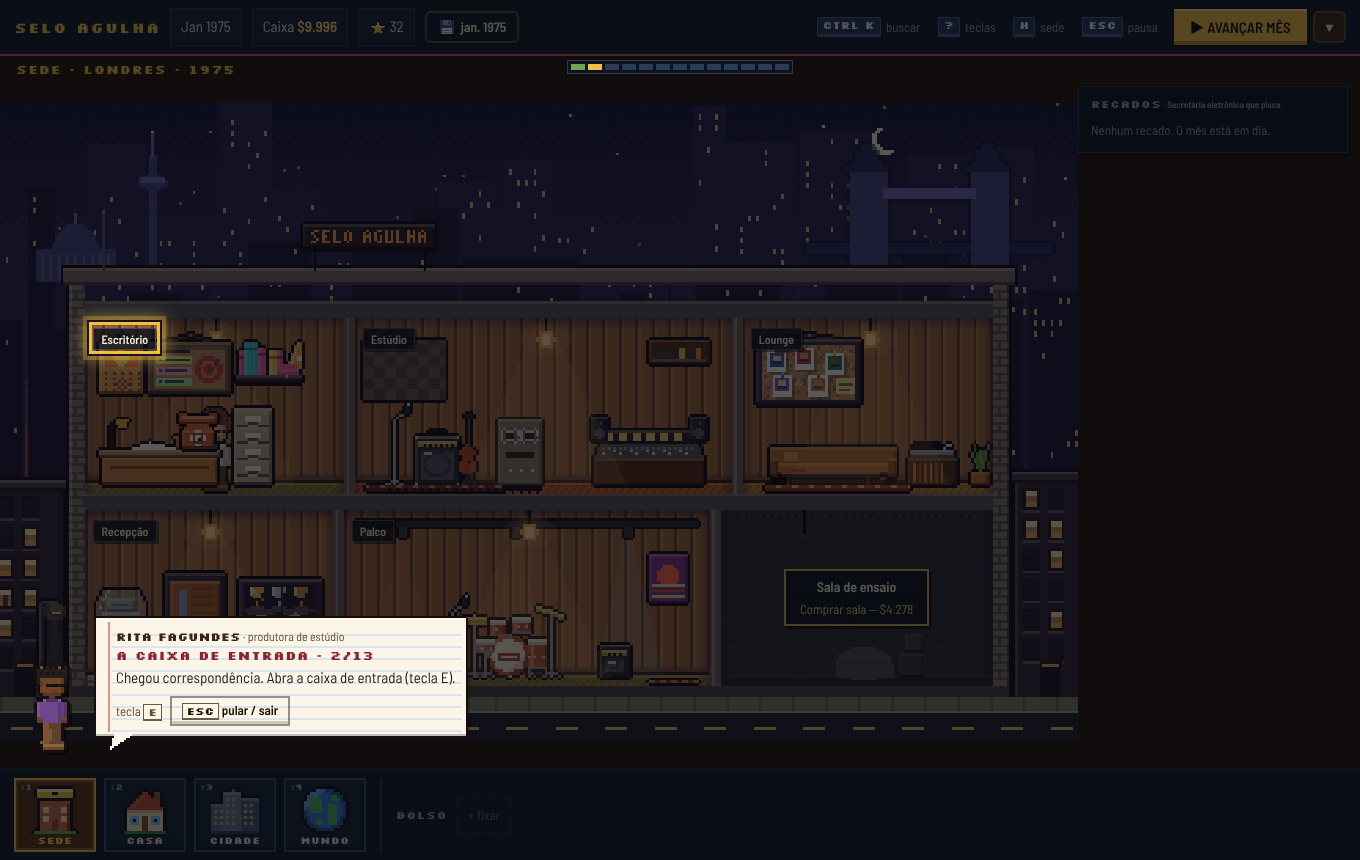
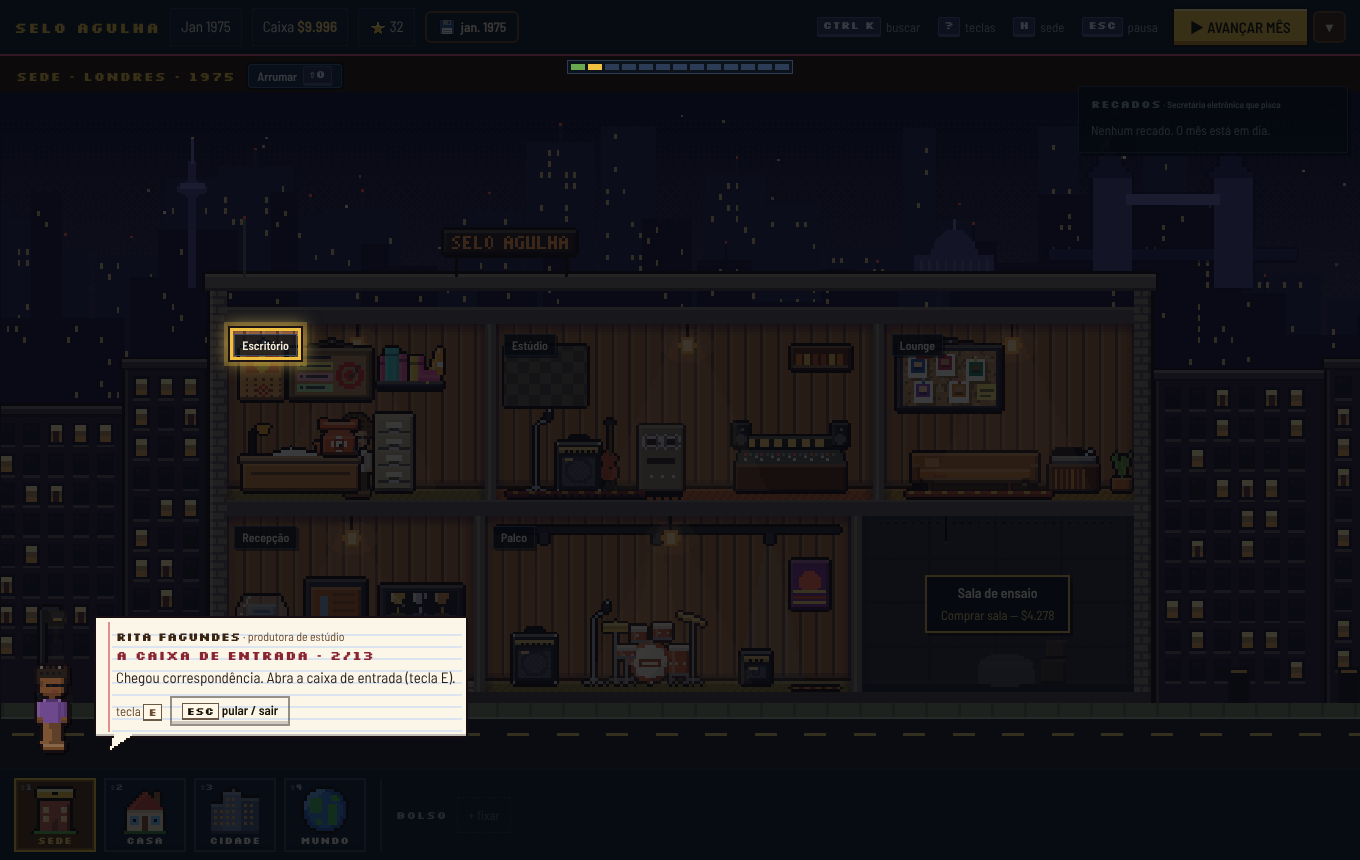
Onda 5 (TUT): tutorial com o cartão de ações (EXP-13), escuro em 4 painéis, nomes protegidos
- Lê o cartão de ações (.ac5[data-card]); o passo do bolso pede "ver tudo ▸" (fixar só com o papel).
- Alvo fora da tela acende o que o passo libera; clique no que o passo libera sempre passa.
- Escuro em volta do alvo com 4 painéis; balão redesenha no tamanho do texto (texto não sai da moldura); diploma alinhado.
- Nome do mentor não passa pela troca de nomes reais; "Fazer" deixa de virar "Fazmann" nos botões.
- Robô do teste melhora a proposta se a banda recusar (como o jogador); capturas refeitas.

Claude-Session: https://claude.ai/code/session_011XM6gk992aeaeJ7tjK8svn

diff --git a/src/ui/r31/tut5ui.ts b/src/ui/r31/tut5ui.ts
@@ -30,7 +30,7 @@ const game = (): GameState | null => store.game ?? null;
 
 /** O que a casca mostra agora (cartão de ações do EXP-13 lido do DOM, quando existir). */
 export function view5(): View5 {
-  const card = typeof document !== 'undefined' ? document.querySelector<HTMLElement>('[data-card5]')?.dataset.card5 : undefined;
+  const card = typeof document !== 'undefined' ? document.querySelector<HTMLElement>('.ac5[data-card]')?.dataset.card : undefined; // cartão de ações (ACOES5)
   return { ...VIEW0, region: SH5.region, paper: SH5.paper?.obj, marker: SH5.paper?.marker.area, card, pause: SH5.pause, help: SH5.help };
 }
 
@@ -44,7 +44,7 @@ export function selOf5(x: Tgt5): string {
   if ('obj' in x) return `[data-obj="${x.obj}"]`;
   if ('travel' in x) return `.b5-tr[data-travel="${x.travel}"]`;
   if ('shell' in x) return SHELL_SEL[x.shell] ?? '.t5';
-  if ('paper' in x) return '[data-card5], .p5';
+  if ('paper' in x) return '.ac5, .p5';
   if ('region' in x) return `.reg5-${x.region}`;
   return '.t5';
 }
@@ -82,8 +82,8 @@ function install(): void {
     if (!guided(s) || UI5.menu) return;
     const el = e.target as HTMLElement | null;
     if (!el || el.closest(ALWAYS)) return;
-    const { target, all } = allowedEls(s);
-    if (target && all.some((a) => a.contains(el))) return; // alvo fora da tela (outro lugar): só a tecla dele vale
+    const { all } = allowedEls(s);
+    if (all.some((a) => a.contains(el))) return; // alvo fora da tela (outro lugar): a tecla dele e o que o passo libera
     e.preventDefault(); e.stopImmediatePropagation();
     if (e.type === 'click') nudge();
   };
@@ -124,7 +124,18 @@ function nudge(): void {
 // ---------------------------------------------------------------- posição do recorte (rAF enquanto montado)
 
 function follow(root: HTMLElement): void {
-  const hole = root.querySelector<HTMLElement>('.tu5-hole');
+  const dims = [...root.querySelectorAll<HTMLElement>('.tu5-dim')];
+  /** Escurece tudo menos o retângulo (4 painéis em volta do alvo; sem alvo, a tela toda). */
+  const cut = (x: number, y: number, w: number, hh: number) => {
+    if (dims.length !== 4) return;
+    const W = window.innerWidth, H = window.innerHeight;
+    const [t, b, l, r] = dims;
+    const px = (n: number) => `${Math.max(0, n)}px`;
+    Object.assign(t.style, { left: '0px', top: '0px', width: px(W), height: px(y) });
+    Object.assign(b.style, { left: '0px', top: px(y + hh), width: px(W), height: px(H - y - hh) });
+    Object.assign(l.style, { left: '0px', top: px(y), width: px(x), height: px(hh) });
+    Object.assign(r.style, { left: px(x + w), top: px(y), width: px(W - x - w), height: px(hh) });
+  };
   const ring = root.querySelector<HTMLElement>('.tu5-ring');
   const here = root.querySelector<HTMLElement>('.tu5-here');
   const box = root.querySelector<HTMLElement>('.tu5-box');
@@ -133,11 +144,13 @@ function follow(root: HTMLElement): void {
     if (!root.isConnected) return;
     const s = game();
     const c = s ? cur5(s) : undefined;
-    const el = c ? elsOf(c.step.target)[0] : undefined;
-    if (el && hole && ring) {
+    // alvo fora da tela: acende o que o passo libera (ex.: o cartão de ações já aberto)
+    const el = c ? elsOf(c.step.target)[0] ?? (c.step.free ?? []).flatMap(elsOf)[0] : undefined;
+    if (el && ring) {
       const r = el.getBoundingClientRect();
       const pad = 4;
-      for (const x of [hole, ring]) { x.hidden = false; x.style.left = `${r.left - pad}px`; x.style.top = `${r.top - pad}px`; x.style.width = `${r.width + pad * 2}px`; x.style.height = `${r.height + pad * 2}px`; }
+      ring.hidden = false; ring.style.left = `${r.left - pad}px`; ring.style.top = `${r.top - pad}px`; ring.style.width = `${r.width + pad * 2}px`; ring.style.height = `${r.height + pad * 2}px`;
+      cut(r.left - pad, r.top - pad, r.width + pad * 2, r.height + pad * 2);
       if (here) { here.style.left = `${r.left}px`; here.style.top = `${Math.max(4, r.top - 26)}px`; }
       // balão longe do alvo: canto de baixo à esquerda, ou em cima à direita se o alvo estiver lá embaixo à esquerda;
       // alvo grande (papel, cena inteira): o balão desce para cima da barra de viagem (que fica bloqueada mesmo)
@@ -147,7 +160,7 @@ function follow(root: HTMLElement): void {
       if (k !== lastFocus) { lastFocus = k; if (!el.contains(document.activeElement) && !document.activeElement?.closest('.tu5-ui')) { (el.matches('button, a, input, [tabindex]') ? el : el.querySelector<HTMLElement>('button, a, input, [tabindex]'))?.focus({ preventScroll: false }); } }
     } else {
       // alvo fora da tela (objeto de outro lugar): tudo escuro e a tecla dele no balão
-      if (hole) { hole.hidden = !root.classList.contains('dim'); hole.style.left = '50%'; hole.style.top = '-8px'; hole.style.width = '0px'; hole.style.height = '0px'; }
+      cut(0, window.innerHeight, 0, 0);
       if (ring) ring.hidden = true;
       if (box) { box.classList.remove('top'); box.classList.remove('low'); }
     }
@@ -158,16 +171,36 @@ function follow(root: HTMLElement): void {
 
 // ---------------------------------------------------------------- balão do mentor
 
+/** Nome do mentor como nó de texto cru: o filtro "Nomes e obras reais" não troca personagem do tutorial (ex.: "Celeste"
+ *  também é nome de artista real). Devolve as partes do texto com cada ocorrência de `names` protegida. */
+function nm(text: string, ...names: string[]): (string | Text)[] {
+  const ns = names.filter(Boolean).sort((a, b) => b.length - a.length);
+  const out: (string | Text)[] = [];
+  let rest = text;
+  for (let guard = 0; guard < 20 && rest; guard++) {
+    let at = -1, hit = '';
+    for (const n of ns) { const i = rest.indexOf(n); if (i >= 0 && (at < 0 || i < at)) { at = i; hit = n; } }
+    if (at < 0) break;
+    if (at > 0) out.push(rest.slice(0, at));
+    out.push(document.createTextNode(hit));
+    rest = rest.slice(at + hit.length);
+  }
+  if (rest) out.push(rest);
+  return out;
+}
+const short5 = (name: string): string => { const w = name.split(' '); return w[0] === 'Seu' || w[0] === 'Dona' ? w.slice(0, 2).join(' ') : w[0]; };
+
 function mentorBox(s: GameState, title: string, body: L, kids: (HTMLElement | null)[], o: { live?: boolean; cls?: string } = {}): HTMLElement {
   const m = mentor5(s.year);
   const face = mentorCanvas5(s.year, 3); face.className = 'tu5-mentor px'; face.setAttribute('aria-hidden', 'true');
   const bub = h('div', { class: 'tu5-bub' },
     h('canvas', { class: 'tu5-bubcv px', 'aria-hidden': 'true' }),
-    h('p', { class: 'tu5-who' }, h('b', null, m.name), ` · ${t(m.role)}`),
+    h('p', { class: 'tu5-who' }, h('b', null, ...nm(m.name, m.name)), ` · ${t(m.role)}`),
     title ? h('h2', { class: 'tu5-t' }, title) : null,
-    h('p', { class: 'tu5-say', 'aria-live': o.live === false ? undefined : 'polite' }, t(body)),
+    h('p', { class: 'tu5-say', 'aria-live': o.live === false ? undefined : 'polite' }, ...nm(t(body), m.name, short5(m.name))),
     h('div', { class: 'tu5-acts' }, ...kids));
-  const el = h('div', { class: `tu5-box tu5-ui ${o.cls ?? ''}`, role: 'dialog', 'aria-label': `${m.name}: ${t(l('tutorial', 'tutorial'))}` }, face, bub);
+  const el = h('div', { class: `tu5-box tu5-ui ${o.cls ?? ''}`, role: 'dialog' }, face, bub);
+  el.setAttribute('aria-label', `${m.name}: ${t(l('tutorial', 'tutorial'))}`);
   // moldura do balão em pixel (redesenha no tamanho do texto, também quando ele muda)
   let last = '';
   const paint = () => {
@@ -205,15 +238,16 @@ function diploma(s: GameState, tt: Tut5): HTMLElement {
         h('p', null, t(l('Certifico que', 'This certifies that')), ' ', h('b', null, s.config.companyName || t(l('o seu selo', 'your label'))), ' ',
           t(l('aprendeu o ofício: sede, contratos, gravação, lançamento, cidade, mundo e casa.', 'has learned the trade: HQ, contracts, recording, release, city, world and home.'))),
         h('p', { class: 'tu5-dipsm' }, t(l('{n} capítulos concluídos · {y}', '{n} chapters completed · {y}'), { n: tt.done.length, y: s.year })),
-        h('p', { class: 'tu5-sign' }, h('span', null, m.name), h('small', null, t(m.role)))),
-      h('p', { class: 'tu5-dipnote' }, t(l('A partida segue livre neste mesmo save. {m} fica no {p} para dicas.', 'The run continues freely in this same save. {m} stays on the {p} for tips.'), { m: m.name, p: t(m.phone) })),
+        h('p', { class: 'tu5-sign' }, h('span', null, ...nm(m.name, m.name)), h('small', null, t(m.role)))),
+      h('p', { class: 'tu5-dipnote' }, ...nm(t(l('A partida segue livre neste mesmo save. {m} fica no {p} para dicas.', 'The run continues freely in this same save. {m} stays on the {p} for tips.'), { m: m.name, p: t(m.phone) }), m.name)),
       h('button', { type: 'button', class: 'tu5-b main', onclick: close }, t(l('Continuar jogando', 'Keep playing')))));
 }
 
 function phone(s: GameState): HTMLElement {
   const m = mentor5(s.year);
-  const chip = h('button', { type: 'button', class: 'tu5-phone tu5-ui', 'aria-expanded': UI5.phone ? 'true' : 'false', title: t(l('Ligar para {m}', 'Call {m}'), { m: m.name }),
-    onclick: () => { UI5.phone = !UI5.phone; RERENDER(); } }, (() => { const c = phoneCanvas5(s.year, 2); c.className = 'px tu5-phi'; c.setAttribute('aria-hidden', 'true'); return c; })(), t(l('Ligar para {m}', 'Call {m}'), { m: m.name.split(' ')[0] === 'Seu' || m.name.split(' ')[0] === 'Dona' ? m.name.split(' ').slice(0, 2).join(' ') : m.name.split(' ')[0] }));
+  const chip = h('button', { type: 'button', class: 'tu5-phone tu5-ui', 'aria-expanded': UI5.phone ? 'true' : 'false',
+    onclick: () => { UI5.phone = !UI5.phone; RERENDER(); } }, (() => { const c = phoneCanvas5(s.year, 2); c.className = 'px tu5-phi'; c.setAttribute('aria-hidden', 'true'); return c; })(), ...nm(t(l('Ligar para {m}', 'Call {m}'), { m: short5(m.name) }), short5(m.name)));
+  chip.setAttribute('title', t(l('Ligar para {m}', 'Call {m}'), { m: m.name }));
   if (!UI5.phone) return chip;
   let tip: L = l('Tudo em dia. Experimente outro país no mapa-múndi, ou um disco cheio quando tiver músicas.', 'All caught up. Try another country on the world map, or a full album once you have songs.');
   let go: (() => void) | null = null;
@@ -257,7 +291,7 @@ export function tutLayer5(s: GameState, rerender: () => void): HTMLElement | nul
   ];
   const box = mentorBox(s, head, text, acts);
   const root = h('div', { class: `tu5${hint ? ' hint' : ' dim'}`, 'data-step': `${c.ch.id}/${c.step.id}` },
-    hint ? null : h('div', { class: 'tu5-hole', 'aria-hidden': 'true' }),
+    ...(hint ? [] : ['t', 'b', 'l', 'r'].map((k) => h('div', { class: `tu5-dim tu5-dim-${k}`, 'aria-hidden': 'true' }))),
     h('div', { class: 'tu5-ring', 'aria-hidden': 'true', hidden: true }),
     h('div', { class: 'tu5-here tu5-ui', hidden: true, role: 'status' }, t(l('primeiro aqui ↓', 'first here ↓'))),
     h('div', { class: 'tu5-prog tu5-ui', 'aria-hidden': 'true' }, ...Array.from({ length: c.of }, (_, i) => h('i', { class: i < c.ci ? 'ok' : i === c.ci ? 'on' : '' }))),

diff --git a/src/ui/r31/tut5data.ts b/src/ui/r31/tut5data.ts
@@ -40,7 +40,7 @@ export const CHAPTERS5: Chapter5[] = [
   ] },
   { id: 'contratar', title: l('Contratar a banda', 'Signing the band'), mins: 1.5, steps: [
     open('fichario', 'fichario', l('Os contatos ficam no fichário (tecla {k}). Abra.', 'Contacts live in the rolodex (key {k}). Open it.')),
-    { id: 'assinar', say: l('Ache o cartão de {b}, abra a ficha e proponha um contrato. Se pedirem mais, aceite a contraproposta.', 'Find {b}\'s card, open their file and offer a contract. If they ask for more, accept the counter-offer.'),
+    { id: 'assinar', say: l('Ache o cartão de {b}, abra a ficha e proponha um contrato. Se pedirem mais, aceite a contraproposta; se recusarem, melhore a proposta e tente de novo.', 'Find {b}\'s card, open their file and offer a contract. If they ask for more, accept the counter-offer; if they refuse, sweeten it and try again.'),
       target: { paper: true }, done: (c) => c.band?.owner === 'player', do: { bot: 'sign' } },
   ] },
   { id: 'planejar', title: l('Marcar a gravação', 'Booking the recording'), mins: 1.5, steps: [
@@ -87,7 +87,8 @@ export const CHAPTERS5: Chapter5[] = [
       done: (c) => energyLeft(c.s) < c.b.energy, do: { bot: 'rest' } },
   ] },
   { id: 'teclas', title: l('Teclas e bolso', 'Keys and pocket'), mins: 1, steps: [
-    open('agenda', 'agenda', l('Volte à sede pela agenda de couro (tecla {k}): ela abre de qualquer lugar.', 'Get back via the leather planner (key {k}): it opens from anywhere.')),
+    { id: 'agenda', say: l('A agenda de couro (tecla {k}) abre de qualquer lugar. Abra e peça "ver tudo ▸".', 'The leather planner (key {k}) opens from anywhere. Open it and ask for "see all ▸".'),
+      target: { obj: 'agenda' }, free: [{ paper: true }], done: (c) => c.v.paper === 'agenda', do: { open: 'agenda' } },
     { id: 'fixar', say: l('O que você mais usa vai no bolso: aperte "+ fixar".', 'What you use most goes in the pocket: press "+ pin".'), target: { shell: 'pin' }, free: [{ paper: true }],
       done: (c) => pocketIds5(c.s).length > c.b.pocket, do: { shell: 'pin' } },
     { id: 'ajuda', say: l('Esqueceu uma tecla? "?" mostra todas — e dá para trocar.', 'Forgot a key? "?" shows them all — and you can change them.'), target: { shell: 'help' },

diff --git a/src/ui/r31/tut5.css b/src/ui/r31/tut5.css
@@ -2,8 +2,8 @@
    diploma e telefone do mentor. Fica por cima da casca (.app5) e não pega clique (o bloqueio é por código, tut5ui.ts). */
 .tu5 { position: fixed; inset: 0; z-index: 900; pointer-events: none; }
 .tu5 .tu5-ui { pointer-events: auto; }
-/* recorte: um buraco do tamanho do alvo com a sombra enorme escurecendo o resto */
-.tu5-hole { position: fixed; box-shadow: 0 0 0 200vmax rgba(6, 8, 14, 0.66); border-radius: 2px; transition: left .18s, top .18s, width .18s, height .18s; }
+/* recorte: quatro painéis escuros em volta do alvo (só o alvo fica claro) */
+.tu5-dim { position: fixed; background: rgba(4, 6, 12, 0.78); }
 .tu5-ring { position: fixed; border: 3px solid #f0c040; outline: 2px solid #1a1214; box-shadow: 0 0 0 5px rgba(240, 192, 64, 0.28), 0 0 18px 4px rgba(255, 216, 104, 0.55);
   image-rendering: pixelated; animation: tu5-glow 1.6s steps(4) infinite; transition: left .18s, top .18s, width .18s, height .18s; }
 .tu5.hint .tu5-ring { border-style: dashed; animation-duration: 2.4s; }
@@ -12,8 +12,8 @@
 @keyframes tu5-shake { 0%, 100% { transform: translateX(0); } 20% { transform: translateX(-4px); } 40% { transform: translateX(4px); } 60% { transform: translateX(-3px); } 80% { transform: translateX(2px); } }
 .tu5-here { position: fixed; padding: 3px 8px; border: 2px solid #1a1214; background: #f0c040; color: #1a1408; font: 700 12px/1.2 var(--pixel, monospace); white-space: nowrap; }
 /* movimento reduzido: sem brilho pulsando nem tremor (o aviso "primeiro aqui" basta) */
-.reduced-motion .tu5-ring, .reduced-motion .tu5-ring.shake, .reduced-motion .tu5-hole { animation: none; transition: none; }
-@media (prefers-reduced-motion: reduce) { .tu5-ring, .tu5-ring.shake, .tu5-hole { animation: none; transition: none; } }
+.reduced-motion .tu5-ring, .reduced-motion .tu5-ring.shake { animation: none; transition: none; }
+@media (prefers-reduced-motion: reduce) { .tu5-ring, .tu5-ring.shake { animation: none; transition: none; } }
 
 /* mentor + balão */
 .tu5-box { position: fixed; left: 16px; bottom: 104px; display: flex; align-items: flex-end; gap: 6px; max-width: min(560px, calc(100vw - 32px)); }

diff --git a/src/sim/r31/realshow31.ts b/src/sim/r31/realshow31.ts
@@ -57,11 +57,14 @@ const COMMON31 = new Set(('yes kiss heart queen prince boston chicago america eu
   + 'punk metal rap reggae ska house techno trance gospel country folk mpb forró axé sertanejo pagode tango salsa '
   // nomes reais que são palavras comuns da interface ou de frases (pt/en): só trocam como texto inteiro ou entre aspas
   + 'elenco nada menor magro alemão dente levante clara area gala mango city culture focus jet winter sabotage bender accept '
-  + 'deluxe random melody shade hub jun jul flood youth vinyl friends friday savage gazebo syria variety').split(/\s+/));
+  + 'deluxe random melody shade hub jun jul flood youth vinyl friends friday savage gazebo syria variety '
+  // verbos de botão da interface que também são nomes reais (ex.: Fazer, do N-Dubz, virava "Fazmann" em "Fazer contatos")
+  + 'fazer ver abrir jogar fechar pular comprar vender gravar lançar contratar marcar ligar avançar sair').split(/\s+/));
 
 // teclas e palavras curtas da interface (rótulos de tecla e botões que não passam por t()): nunca trocadas
 const UIWORDS31 = ['Enter', 'Esc', 'Tab', 'Alt', 'Ctrl', 'Shift', 'Space', 'Espaço', 'Home', 'End', 'Delete', 'Backspace',
-  'OK', 'Ok', 'No', 'Go', 'Up', 'On', 'Off', 'So', 'Be', 'Re', 'Do', 'Oh'];
+  'OK', 'Ok', 'No', 'Go', 'Up', 'On', 'Off', 'So', 'Be', 'Re', 'Do', 'Oh',
+  'Fazer', 'Ver', 'Abrir', 'Jogar', 'Fechar', 'Pular', 'Comprar', 'Vender', 'Gravar', 'Lançar', 'Contratar', 'Marcar', 'Ligar', 'Avançar', 'Sair'];
 
 let PLACES31: Set<string> | null = null;
 /** nomes de lugar: cidades, países e mercados (pt e en), inteiros */

diff --git a/src/ui/r31/tut5entry.ts b/src/ui/r31/tut5entry.ts
@@ -38,7 +38,7 @@ export function tutEraPicker5(onStart: () => void, company?: string): void {
     const cv = mentorCanvas5(y, 2); cv.className = 'px tu5-pickav'; cv.setAttribute('aria-hidden', 'true');
     const d = scenarioById[tutScenarioId5(y)];
     return h('button', { type: 'button', class: 'tu5-pick', 'data-tut5': String(y), onclick: () => { close(); startTutRun5(y, onStart, company); } },
-      cv, h('span', null, h('b', null, String(y)), h('small', null, `${m.name} · ${t(m.role)}`), h('small', { class: 'muted' }, t(d.desc).split(':')[0])));
+      cv, h('span', null, h('b', null, String(y)), h('small', null, document.createTextNode(m.name), ` · ${t(m.role)}`), h('small', { class: 'muted' }, t(d.desc).split(':')[0])));
   };
   close = modal(t(l('Aprender a jogar', 'Learn to play')), h('div', { class: 'tu5-picker' },
     h('p', null, t(l('Um mentor da época mostra o jogo fazendo: 12 capítulos curtos (uns 15 minutos), cada um pode ser pulado. Escolha quando começar:',

diff --git a/tests/r31-tut5.test.ts b/tests/r31-tut5.test.ts
@@ -64,8 +64,13 @@ function act(s: GameState, step: Step5): void {
   if ('bot' in d) {
     if (d.bot === 'close') { view = { ...view, paper: undefined }; return; }
     if (d.bot === 'sign') {
-      const r = offerNow(s, rng19(s, 'act'), defaultOffer(s, band));
-      if (r.result === 'counter' && r.offer) acceptCounter(s, r.offer.id);
+      // como o jogador: se recusarem, melhora a proposta (royalty, controle criativo) e tenta de novo
+      for (let i = 0; i < 4 && band.owner !== 'player'; i++) {
+        const o = defaultOffer(s, band);
+        o.royalty = Math.min(0.3, o.royalty + 0.03 * i); o.creativeControl = i >= 2;
+        const r = offerNow(s, rng19(s, 'act'), o);
+        if (r.result === 'counter' && r.offer) acceptCounter(s, r.offer.id);
+      }
       return;
     }
     if (d.bot === 'plan') { const p = reservePlan(s, band.id, 'record', monthIndex(s) + 1); expect('pt' in p).toBe(false); return; }

diff --git a/src/ui/r31/tut5model.ts b/src/ui/r31/tut5model.ts
@@ -28,7 +28,7 @@ export type Tgt5 =
   | { region: Region5 }
   | { key: string };
 
-/** O que a casca está mostrando (só interface). `card` = cartão de ações ao lado do objeto (EXP-13); `paper` = o papel
+/** O que a casca está mostrando (só interface). `card` = cartão de ações ao lado do objeto (EXP-13, acoes5.ts); `paper` = o papel
  *  inteiro ("ver tudo ▸"). O alvo `{ paper: true }` vale para os dois: "o que o objeto abriu". */
 export interface View5 { region: Region5; paper?: string; card?: string; marker?: string; pause: boolean; help: boolean }
 /** O objeto `id` está aberto (cartão de ações ou papel)? */

diff --git a/docs/r31/DECISOES.md b/docs/r31/DECISOES.md
@@ -416,7 +416,8 @@ Cada linha: data · onda · decisão (o que substituiu o quê) · motivo · valo
   - Entradas: "APRENDER A JOGAR" (home5), cartão "Primeiro selo" nos Cenários (goals.ts) e chave "Tutorial guiado" no começo rápido (newrun5, desligada). "Primeiro selo" = cenário r17 por época (1925, 1958, 1975, 1995, 2018) com semente fixa `primeiro-selo`, fora da lista geral SCENARIOS.
   - Roteirizado só com `config.tut5` (gancho 'newgame' em `src/sim/r31/tut5.ts`): banda sem gravadora na recepção no 1º mês (fluxo de sorteio próprio `tut5:<semente>`, 3 músicas, já no fichário) + aviso. Sem `config.tut5` nada muda (teste: mesma semente = mesmo estado; sem chave nova no save).
   - Roteiro como DADOS (`src/ui/r31/tut5data.ts`): 12 capítulos + 1 extra da carreira principal (8 carreiras). Motor sem DOM (`tut5model.ts`), camada visual (`tut5ui.ts`: recorte, contorno aceso, balão, bloqueio de clique/tecla, Esc = pular/sair, modo dica, diploma, mentor no telefone). A virada do mês vem antes de lançar (a gravação leva dias).
-  - EXP-13 (ações no objeto): "abrir" conclui com o cartão de ações (`[data-card5]`) OU o papel; os passos de fazer concluem pela ação no mundo. Quando o cartão existir, basta ele ter `data-card5="<objeto>"`.
+  - EXP-13 (ações no objeto): "abrir" conclui com o cartão de ações (`[data-card5]`) OU o papel; os passos de fazer concluem pela ação no mundo. O cartão é lido de `.ac5[data-card]` (acoes5.ts); fixar no bolso pede o papel inteiro ("ver tudo ▸"), por isso esse passo pede o papel.
   - Pontos mínimos em arquivos de outras frentes: `data-t5` em 5 botões do topo (shell5), `data-obj` nos itens da lista da sala (sede5), `host.extra` chama a camada primeiro e as metas de abertura (ux19/kick27) esperam o tutorial (app.ts, ux19.ts).
   - Arte (pedido do dono): balão e diploma no estilo dos papéis da onda 5 (ficha e prancheta de exp5paper, contorno INK, volume); a cena de época dos cartões "Metas de abertura"/virada (ux19 `eraArt`) agora é um canto de sala da época com os objetos de exp5px (rádio/TV e demos), a lápide (ux19) e a parede do museu (live/museum) redesenhadas com volume e contorno.
-  - Prova: `tests/r31-tut5.test.ts` (robô joga o roteiro inteiro em 1925 e 1975 só fazendo o que cada passo pede; todo alvo existe; clique/tecla fora não muda nada; pular/sair; modo dica; sem tutorial = igual), capturas `docs/r31/shots/onda5-tut-*.png` (script `scripts/r31/shots-tut5.mjs`). r31-editor "disparar evento" segue como falha conhecida (onda 6).
+  - Nomes reais: "Fazer" (integrante do N-Dubz) virava "Fazmann" nos botões ("Fazer contatos no setor") — verbos de botão entram nas palavras comuns e nas palavras da interface de `realshow31.ts`; o nome do mentor vai como texto cru (personagem do tutorial não é trocado; "Celeste" também é artista real). O escuro em volta do alvo são 4 painéis (a sombra gigante não pintava no Chromium).
+  - Prova: `tests/r31-tut5.test.ts` (robô joga o roteiro inteiro em 1925 e 1975 só fazendo o que cada passo pede; todo alvo existe; clique/tecla fora não muda nada; pular/sair; modo dica; sem tutorial = igual), capturas `docs/r31/shots/onda5-tut-*.png` (script `scripts/r31/shots-tut5.mjs`). r31-editor "disparar evento" e r4-live "cenário prepara o mundo… medalha no prazo" falham também na integração (conferido em origin/claude/friendly-brown-vpsmfl 24f245f0): onda 6.
